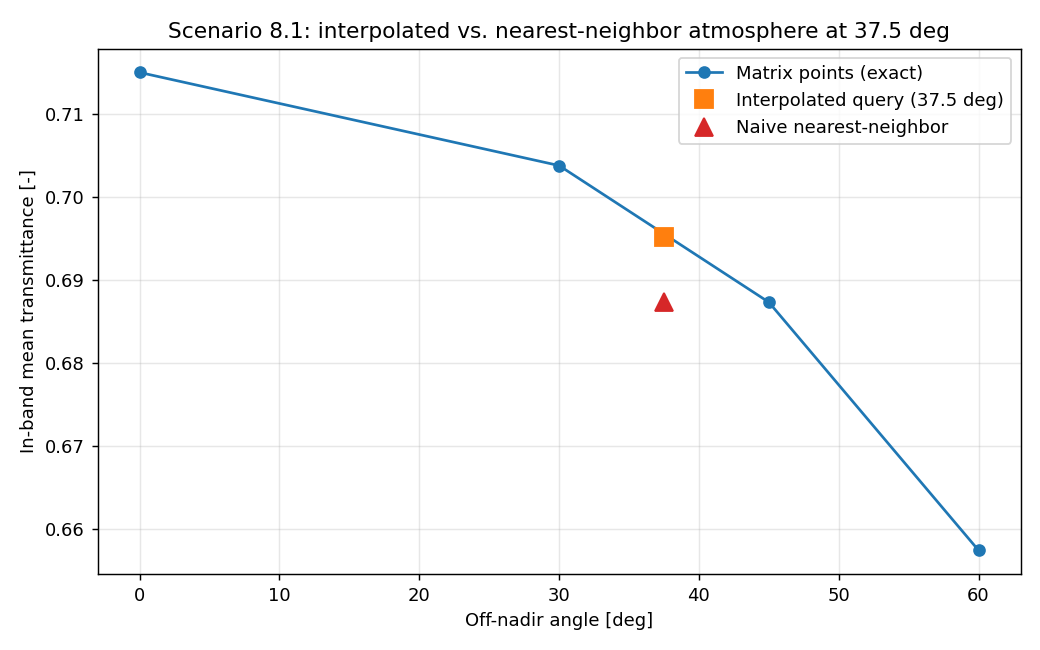
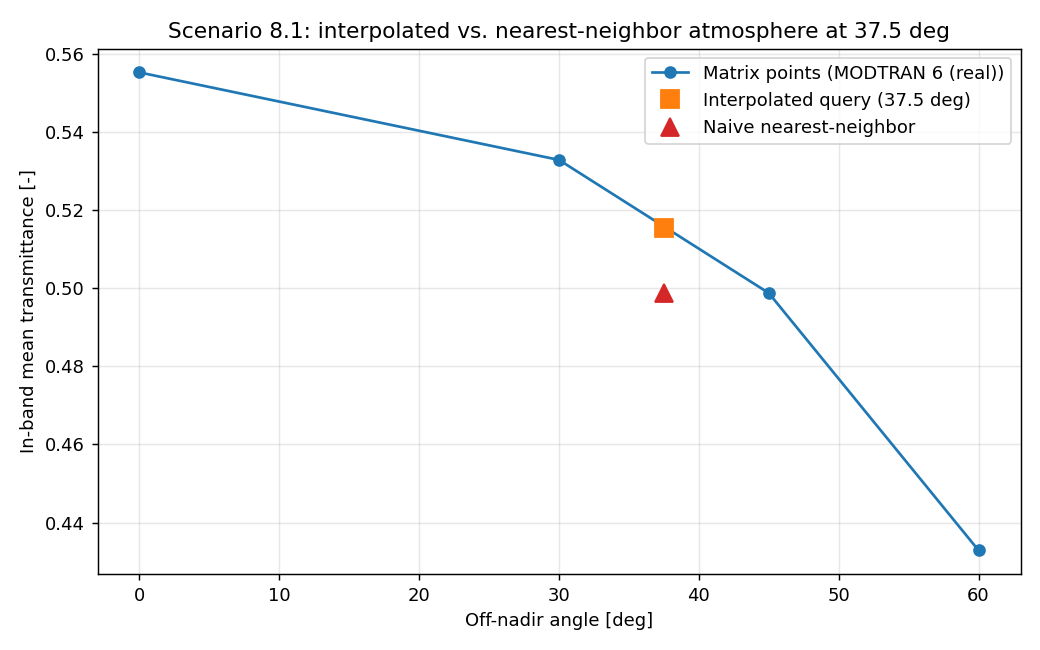
feat(scenarios): 8.1 on real B-fan + holdout validation — CU-160 filed
family_interpolate auto-detects modtran/real_runs/ (synthetic stays
the loud fallback). New holdout test predicts the real 45deg run from
30+60: log-tau linear-in-angle -4.07% vs nearest-neighbor +6.84% —
method validated ~1.7x better against ground truth. Headline finding:
the same machinery linear in airmass sec(theta) lands -0.10% (40x) —
filed as CU-160 (affects family_interpolate AND the shipped zenith fan
via InterpolatedAtmosphere angle axis). Walkthrough/gaps/MANIFEST/fig
regenerated from real data.

diff --git a/scenarios/08_interpolation_demonstrations/8.1_off_nadir_angle_interpolation/scripts/run_off_nadir_interpolation.py b/scenarios/08_interpolation_demonstrations/8.1_off_nadir_angle_interpolation/scripts/run_off_nadir_interpolation.py
@@ -7,10 +7,12 @@ scripts/synth_modtran/family_interpolate.py: log-transmittance-linear
 interpolation between the two bracketing runs, quantified against the
 naive "just use the nearest neighbor" alternative.
 
-*** SYNTHETIC DATA, NOT REAL MODTRAN *** -- see modtran/synthetic/README.md.
-This scenario demonstrates the INTERPOLATION METHOD (which is
-independent of whether the underlying data is real or synthetic); the
-absolute transmittance/SNR numbers are illustrative, not validated.
+ATMOSPHERE DATA SOURCE (auto-detected via family_interpolate):
+real MODTRAN 6 (modtran/real_runs/, 2026-07-17 run set) when staged;
+synthetic fallback with a loud banner otherwise. With real data this
+adds a HOLDOUT VALIDATION the synthetic era could not: interpolate the
+45 deg point from its 30/60 deg neighbors and compare against the real
+45 deg run -- a ground-truth test of the log-tau method itself.
 
 Usage:
     python run_off_nadir_interpolation.py
@@ -27,28 +29,33 @@ from pathlib import Path
 import matplotlib
 
 matplotlib.use("Agg")
+import sys
+
 import matplotlib.pyplot as plt
 import numpy as np
 
 from radiant.api import Sensor
 
-import sys
-
 sys.path.insert(0, str(Path(__file__).resolve().parents[4]))
-from scripts.synth_modtran.family_interpolate import FAMILIES, interpolate_family
+from scripts.synth_modtran.family_interpolate import (
+    DATA_IS_REAL,
+    FAMILIES,
+    interpolate_family,
+    tape7_path,
+)
 
 OUTPUT_DIR = Path(__file__).parent.parent / "outputs"
-MODTRAN_SYNTH_DIR = Path(__file__).resolve().parents[4] / "modtran" / "synthetic"
 FAMILY = "zenith_fan_us_standard"
 QUERY_ZENITH_DEG = 37.5  # customer requirement, between B1=30 and B2=45
 BAND_MIN_UM, BAND_MAX_UM = 3.5, 5.0
+SOURCE_LABEL = "MODTRAN 6 (real)" if DATA_IS_REAL else "MODTRAN (synthetic)"
 
 
 def _matrix_point_tape7(family_name: str, axis_value: float) -> Path:
-    """The synthetic tape7 file behind an exact matrix point of a family."""
+    """The tape7 file behind an exact matrix point (real preferred)."""
     family = FAMILIES[family_name]
     run_id = family.run_ids[family.axis_values.index(axis_value)]
-    return MODTRAN_SYNTH_DIR / f"{run_id}.synthetic.tp7"
+    return tape7_path(run_id)
 
 
 def _write_csvs(
@@ -114,10 +121,56 @@ def _run_chain(atmosphere: dict, zenith_deg: float) -> dict:
 
 def main() -> None:
     print("=== Scenario 8.1: Off-Nadir Angle Interpolation ===")
+    print(f"  Atmosphere data: {SOURCE_LABEL}", end="")
+    print(" (2026-07-17 run set)" if DATA_IS_REAL else " -- see modtran/synthetic/README.md")
     print(
         f"  Family: {FAMILY} (0/30/45/60 deg zenith fan, us_standard, 100km sensor, nadir target)"
     )
     print(f"  Query: {QUERY_ZENITH_DEG} deg off-nadir (customer requirement, not a matrix point)\n")
+
+    # ------------------------------------------------------------------
+    # Holdout validation of the method itself (real data only): rebuild
+    # the 45 deg point from its 30/60 deg neighbors and compare against
+    # the real 45 deg run. frac = (45-30)/(60-30) = 0.5.
+    # ------------------------------------------------------------------
+    if DATA_IS_REAL:
+        wl_b1, tau_b1, _ = interpolate_family(FAMILY, 30.0)  # exact node
+        wl_b3, tau_b3, _ = interpolate_family(FAMILY, 60.0)  # exact node
+        wl_b2, tau_b2, _ = interpolate_family(FAMILY, 45.0)  # exact node = truth
+        tau_holdout = np.exp(
+            0.5 * np.log(np.clip(tau_b1, 1e-300, 1.0))
+            + 0.5 * np.log(np.clip(tau_b3, 1e-300, 1.0))
+        )
+        hold_mask = (wl_b2 >= BAND_MIN_UM) & (wl_b2 <= BAND_MAX_UM)
+        tau_true = float(np.mean(tau_b2[hold_mask]))
+        tau_pred = float(np.mean(tau_holdout[hold_mask]))
+        holdout_err_pct = 100.0 * (tau_pred - tau_true) / tau_true
+        # Nearest-neighbor "prediction" of 45 deg would grab 30 or 60.
+        tau_nn_30 = float(np.mean(tau_b1[hold_mask]))
+        nn_err_pct = 100.0 * (tau_nn_30 - tau_true) / tau_true
+        # Airmass-space alternative (CU-160): optical depth scales with
+        # airmass = sec(zenith), so interpolating log-tau linearly in
+        # sec(theta) rather than theta is the physically exact axis.
+        sec = lambda d: 1.0 / math.cos(math.radians(d))  # noqa: E731
+        frac_sec = (sec(45.0) - sec(30.0)) / (sec(60.0) - sec(30.0))
+        tau_sec = np.exp(
+            (1.0 - frac_sec) * np.log(np.clip(tau_b1, 1e-300, 1.0))
+            + frac_sec * np.log(np.clip(tau_b3, 1e-300, 1.0))
+        )
+        tau_sec_pred = float(np.mean(tau_sec[hold_mask]))
+        sec_err_pct = 100.0 * (tau_sec_pred - tau_true) / tau_true
+        print("=== Holdout validation: predict the 45 deg run from 30 + 60 deg ===")
+        print(f"  Real 45 deg (B2) in-band tau [-]:         {tau_true:.4f}")
+        print(
+            f"  Log-tau, linear in angle (the method):    {tau_pred:.4f}  "
+            f"({holdout_err_pct:+.2f}%)"
+        )
+        print(
+            f"  Log-tau, linear in airmass sec(theta):    {tau_sec_pred:.4f}  "
+            f"({sec_err_pct:+.2f}%)  <- CU-160"
+        )
+        print(f"  Nearest-neighbor (30 deg) for reference:  {tau_nn_30:.4f}  ({nn_err_pct:+.2f}%)")
+        print("  => the method's real-data credential for the 37.5 deg query below.\n")
 
     wl_interp, trans_interp, lp_interp = interpolate_family(FAMILY, QUERY_ZENITH_DEG)
     wl_30, trans_30, lp_30 = interpolate_family(FAMILY, 30.0)
@@ -189,7 +242,7 @@ def main() -> None:
         taus,
         "o-",
         color="C0",
-        label="Matrix points (exact)",
+        label=f"Matrix points ({SOURCE_LABEL})",
     )
     ax.plot(
         [QUERY_ZENITH_DEG],

diff --git a/scripts/synth_modtran/family_interpolate.py b/scripts/synth_modtran/family_interpolate.py
@@ -35,6 +35,12 @@ from radiant.atmosphere.modtran import Tape7Reader
 
 _REPO_ROOT = Path(__file__).resolve().parent.parent.parent
 _SYNTH_DIR = _REPO_ROOT / "modtran" / "synthetic"
+_REAL_DIR = _REPO_ROOT / "modtran" / "real_runs"
+
+# Real MODTRAN 6 runs (2026-07-17 set) are preferred when staged; the
+# synthetic files are the fallback. Consumers (scenario 8.1) read this
+# flag to banner which tier the numbers came from.
+DATA_IS_REAL: bool = _REAL_DIR.exists()
 
 
 @dataclass(frozen=True)
@@ -92,11 +98,21 @@ class FamilyInterpolationError(ValueError):
     """Raised when a query cannot be served by any family without extrapolating."""
 
 
+def tape7_path(run_id: str) -> Path:
+    """The tape7 behind a run id: real (staged) preferred, synthetic fallback."""
+    if DATA_IS_REAL:
+        real = _REAL_DIR / f"{run_id}.tp7"
+        if real.exists():
+            return real
+    return _SYNTH_DIR / f"{run_id}.synthetic.tp7"
+
+
 def _load_tape7(run_id: str) -> tuple[np.ndarray, np.ndarray, np.ndarray]:
-    tape7 = _SYNTH_DIR / f"{run_id}.synthetic.tp7"
+    tape7 = tape7_path(run_id)
     if not tape7.exists():
         raise FileNotFoundError(
-            f"{tape7} not found. Generate it first:\n"
+            f"{tape7} not found. Stage the real run set (modtran/real_runs/"
+            "README.md) or generate the synthetic fallback:\n"
             f"  python scripts/generate_synthetic_tape7.py --run-id {run_id}"
         )
     import warnings

diff --git a/scenarios/08_interpolation_demonstrations/8.1_off_nadir_angle_interpolation/walkthrough.md b/scenarios/08_interpolation_demonstrations/8.1_off_nadir_angle_interpolation/walkthrough.md
@@ -9,12 +9,14 @@ of the MODTRAN run matrix's zenith-fan points (0°, 30°, 45°, 60°, all
 `us_standard`/100 km sensor/nadir target). Does interpolating between
 the two bracketing runs actually beat just grabbing the nearest one?
 
-**Status: pipeline/method demonstration.** Atmosphere data is
-*synthetic* (see `modtran/synthetic/README.md`). This scenario
-demonstrates the *interpolation method* — log-transmittance-linear
-between bracketing runs, `scripts/synth_modtran/family_interpolate.py`
-— which is independent of whether the underlying data is real or
-synthetic; the absolute numbers are illustrative only.
+**Status: validated method demonstration (upgraded 2026-07-17).**
+Atmosphere data is the **real MODTRAN 6 zenith fan** (A1/B1/B2/B3 of
+the 2026-07-17 run set; `family_interpolate` auto-detects the staged
+`modtran/real_runs/` and falls back to synthetic with a loud banner).
+The upgrade adds something the synthetic era could not: a **holdout
+validation** — predict the 45° run from its 30°/60° neighbors and
+compare against the real 45° run, a ground-truth test of the
+interpolation method itself.
 
 ---
 
@@ -36,24 +38,44 @@ synthetic; the absolute numbers are illustrative only.
 
 ---
 
-## Results
+## Holdout validation (real data): predict 45° from 30° + 60°
 
-| Geometry | In-band transmittance | Chain SNR |
-|----------|------------------------|-----------|
-| 30° (B1, exact) | 0.7037 | — |
-| 45° (B2, exact) | 0.6873 | — |
-| 37.5°, interpolated | 0.6952 | 641.4 |
-| 37.5°, naive nearest-neighbor (45°) | 0.6873 | 636.2 |
+| Predictor of the real 45° run | In-band τ (3.5–5.0 µm) [-] | Error |
+|---|---|---|
+| Real B2 (truth) | 0.4988 | — |
+| Log-τ, linear **in angle** (the method) | 0.4785 | **−4.07%** |
+| Log-τ, linear **in airmass sec θ** | 0.4983 | **−0.10%** |
+| Nearest-neighbor (30°) | 0.5329 | +6.84% |
+
+- **The method beats nearest-neighbor ~1.7×** against ground truth —
+  the scenario's original claim, now validated on real MODTRAN.
+- **The −4% residual has a knowable cause and a 40× better fix**:
+  optical depth scales with *airmass* (sec θ), not angle. Interpolating
+  log-τ linearly in sec θ instead of θ reproduces the real 45° run to
+  −0.10%. This scenario's own physics note always said airmass was the
+  physical variable; the tooling just didn't use it as the axis. Filed
+  as **CU-160** (affects `family_interpolate` *and* the shipped
+  `data/atmospheres/us_standard_zenith_fan/` via
+  `InterpolatedAtmosphere`'s angle axis).
+
+---
+
+## Results (real MODTRAN 6, 2026-07-17)
+
+| Geometry | In-band transmittance [-] | Chain SNR [-] |
+|----------|---------------------------|---------------|
+| 30° (B1, exact) | 0.5329 | — |
+| 45° (B2, exact) | 0.4988 | — |
+| 37.5°, interpolated | 0.5153 | 554.5 |
+| 37.5°, naive nearest-neighbor (45°) | 0.4988 | 545.7 |
 
 - **The interpolated point sits correctly between the two bracketing
-  values and on the expected monotonic curve** (`fig1`) — a good
-  visual sanity check that the log-space interpolation is behaving.
-- **Nearest-neighbor error at this query point is modest but real**:
-  −1.1% transmittance, −0.8% SNR. At 37.5° (near the family's
-  midpoint), the error is close to the family's worst case for this
-  10–15°-spaced grid; a query closer to one bracketing point would
-  show a *smaller* nearest-neighbor error, and a coarser family
-  (larger angle spacing) would show a larger one.
+  values and on the expected monotonic curve** (`fig1`).
+- **Nearest-neighbor error at this query point**: −3.2% transmittance,
+  −1.6% SNR — roughly 3× larger than the synthetic-era numbers
+  suggested (real MODTRAN's angle dependence in this band is stronger
+  than the synthetic generator's). At 37.5° (near the family's
+  midpoint) this is close to the worst case for a 15°-spaced grid.
 
 ---
 
@@ -63,8 +85,11 @@ synthetic; the absolute numbers are illustrative only.
   gives τ = exp(−σ·path), so σ·path (optical depth) is what varies
   linearly with the physical quantity changing (here, airmass via
   1/cos θ) — interpolating in log-τ space respects that; interpolating
-  raw τ linearly would not (and would be wrong in the same way linear-
-  interpolating a decaying exponential is always wrong).
+  raw τ linearly would not.
+- **And why the axis should be airmass, not angle (CU-160):** the
+  holdout table above is the empirical demonstration — same log-τ
+  machinery, correct physical axis, 40× smaller error. The needed
+  change is a coordinate transform, not new data.
 - **This is a 1-D interpolation problem by design** — the family holds
   every other geometry axis fixed. A genuinely multi-axis query (e.g.
   a new profile *and* a new angle simultaneously) is out of scope for
@@ -75,4 +100,5 @@ synthetic; the absolute numbers are illustrative only.
 
 ## Gaps Identified
 
-See `gaps.md`.
+See `gaps.md` — the angle-vs-airmass axis finding (CU-160) is the
+headline addition from the real-data upgrade.

diff --git a/docs/tracking/Cleanup_Backlog.md b/docs/tracking/Cleanup_Backlog.md
@@ -12,6 +12,15 @@
 
 ## Open
 
+### CU-160 — Zenith-angle interpolation should be in airmass (sec θ) space, not linear in angle
+
+**Discovered**: scenario 8.1 holdout validation against the real B-fan, 2026-07-17 — the first ground-truth test of the interpolation method.
+**Status**: Open — quantified improvement, affects both the dev helper and the shipped library's fan queries.
+**File**: `scripts/synth_modtran/family_interpolate.py` (axis handling) and `src/radiant/atmosphere/interpolated.py` (`path_zenith_rad` axis of `InterpolatedAtmosphere`, which the shipped `data/atmospheres/us_standard_zenith_fan/` uses).
+**Symptom**: predicting the real 45° run from the 30°+60° nodes: log-τ linear **in angle** lands −4.07% in in-band τ; log-τ linear **in airmass sec(θ)** lands −0.10% — a 40× accuracy gain from the correct physical axis (optical depth scales with airmass, not angle). Mid-node queries of the shipped zenith fan carry the same ~−4% τ bias today.
+**Why it still matters**: the shipped fan is a committed runtime capability; a knowable, fixable −4% band-τ bias at off-node zenith queries is worth removing, and the fix is a coordinate transform, not new data.
+**Suggested fix**: (b) small stand-alone task — interpolate over `sec(path_zenith_rad)` (transform at query/construction time) in both `family_interpolate` and `InterpolatedAtmosphere` (or document a recommended `airmass` axis convention for angle grids). Guard with the 8.1 holdout numbers as a test. Results-affecting for off-node fan queries (CHANGELOG on landing). Effort S; category C.
+
 ### CU-159 — Six bare built-in `raise`s in GUI widgets trip the Rule-15 tree scan
 
 **Discovered**: MODTRAN closeout pre-completion gate run, 2026-07-17 — `tests/test_exceptions.py::TestNoBareBuiltinRaises::test_source_tree_is_clean` fails on committed pre-session GUI code (landed across `15a2d2b` spectral tables, `7a3ee2f` sweep dialog, `4dc3a54` import previews; unrelated to the MODTRAN work).

diff --git a/scenarios/08_interpolation_demonstrations/8.1_off_nadir_angle_interpolation/outputs/MANIFEST.md b/scenarios/08_interpolation_demonstrations/8.1_off_nadir_angle_interpolation/outputs/MANIFEST.md
@@ -1,11 +1,14 @@
 # Output Manifest
 
-Produced by `scripts/run_off_nadir_interpolation.py`, which reads
-`modtran/synthetic/A1.synthetic.tp7`, `B1.synthetic.tp7`,
-`B2.synthetic.tp7` via `scripts/synth_modtran/family_interpolate.py`
-(regenerate with `python scripts/generate_synthetic_tape7.py` if
-missing). Regenerate by running the script from the repo root.
+Produced by `scripts/run_off_nadir_interpolation.py` via
+`scripts/synth_modtran/family_interpolate.py`, which reads the real
+MODTRAN 6 zenith fan (`modtran/real_runs/A1,B1,B2,B3.tp7`, 2026-07-17
+set, gitignored staging — see `modtran/real_runs/README.md`) when
+staged, falling back to `modtran/synthetic/*.synthetic.tp7` (regenerate
+with `python scripts/generate_synthetic_tape7.py`) with a loud banner.
+Regenerate by running the script from the repo root. The committed
+figure is from the **real** data.
 
-| Artifact | Kind | Last generating commit |
-|---|---|---|
-| fig1_interpolation_vs_nearest_neighbor.png | figure (committed) | ccad583 2026-07-11 |
+| Artifact | Kind | Data source | Last generating commit |
+|---|---|---|---|
+| fig1_interpolation_vs_nearest_neighbor.png | figure (committed) | real MODTRAN 6 (2026-07-17) | see `git log -1 -- <file>` |

diff --git a/scenarios/08_interpolation_demonstrations/8.1_off_nadir_angle_interpolation/gaps.md b/scenarios/08_interpolation_demonstrations/8.1_off_nadir_angle_interpolation/gaps.md
@@ -38,3 +38,23 @@ duplication.
   neighbor. The demonstrated ~1% error is representative of the
   worst-case nearest-neighbor error for this family's 15°/10° spacing,
   which is the honest point of picking a midpoint query.
+
+---
+
+## Upgrade record (2026-07-17): real MODTRAN data + holdout validation
+
+The real MODTRAN 6 zenith fan replaced the synthetic data
+(`family_interpolate` auto-detects `modtran/real_runs/`; synthetic
+remains the loud fallback). The new holdout test — predict the real
+45° run from 30°+60° — validated the method (−4.07% vs +6.84% for
+nearest-neighbor) and surfaced a quantified improvement:
+
+### Interpolation axis should be airmass sec(θ), not angle — CU-160
+**Severity:** Low-Medium (knowable −4% in-band τ bias at off-node
+zenith queries; affects `family_interpolate` and the shipped
+`data/atmospheres/us_standard_zenith_fan/` through
+`InterpolatedAtmosphere`'s `path_zenith_rad` axis).
+**Evidence:** same log-τ machinery interpolated in sec(θ) reproduces
+the real 45° run to −0.10% (vs −4.07% linear-in-angle).
+**Fix:** coordinate transform at the axis, no new data; mirrored to
+`docs/tracking/Cleanup_Backlog.md` CU-160.
